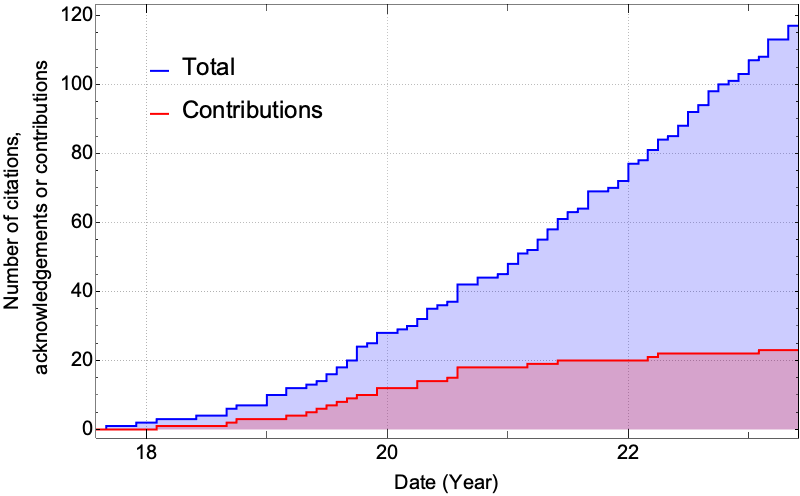
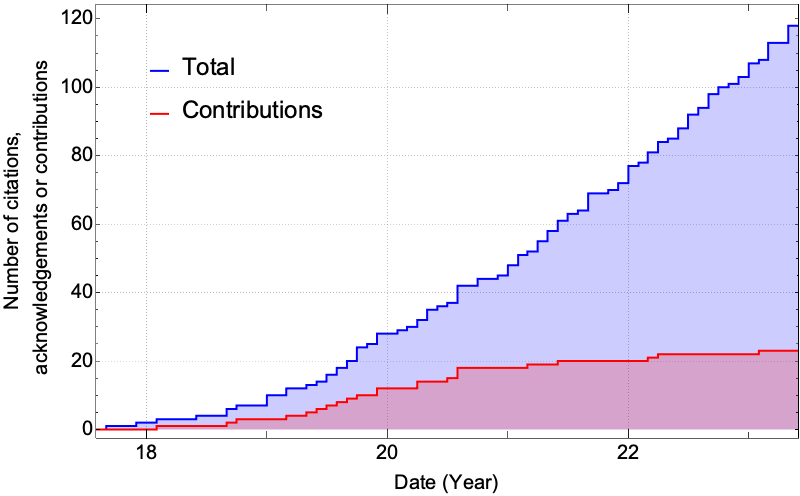
Add paper the cites the Toolkit

diff --git a/users.md b/users.md
@@ -19,11 +19,13 @@ The graph below show the accumulated citations to the Toolkit over time. The blu
 
 Below is a list of research papers that have used or extended the Toolkit. Papers that have contributed code or data to the Toolkit have a (*) after them.
 
-117\. "Self-forced inspirals with spin-orbit precession", Philip Lynch, Maarten van de Meent, Niels Warburton, [arXiv:2305.10533](https://arxiv.org/abs/2305.10533)
+118\. "Self-forced inspirals with spin-orbit precession", Philip Lynch, Maarten van de Meent, Niels Warburton, [arXiv:2305.10533](https://arxiv.org/abs/2305.10533)
 
-116\. "Frequency-domain approach to self-force in hyperbolic scattering", Christopher Whittall, Leor Barack, [arXiv:2305.09724](https://arxiv.org/abs/2305.09724)
+117\. "Frequency-domain approach to self-force in hyperbolic scattering", Christopher Whittall, Leor Barack, [arXiv:2305.09724](https://arxiv.org/abs/2305.09724)
 
-115\. "Extreme mass-ratio inspiral of a spinning body into a Kerr black hole I: Evolution along generic trajectories", Lisa V. Drummond, Alexandra G. Hanselman, Devin R. Becker, Scott A. Hughes, [arXiv:2305.08919](https://arxiv.org/abs/2305.08919)
+116\. "Extreme mass-ratio inspiral of a spinning body into a Kerr black hole I: Evolution along generic trajectories", Lisa V. Drummond, Alexandra G. Hanselman, Devin R. Becker, Scott A. Hughes, [arXiv:2305.08919](https://arxiv.org/abs/2305.08919)
+
+115\. "Gravitational Wave Peeps from EMRIs and their Implication for LISA Signal Confusion Noise", Daniel J Oliver, Aaron D Johnson, Joel Berrier, Kostas Glampedakis, Daniel Kennefick, [arXiv:2305.05793](https://arxiv.org/abs/2305.05793)
 
 114\. "Detecting the secondary spin with extreme mass ratio inspirals in Scalar-Tensor theory", Hong Guo, Chao Zhang, Yunqi Liu, Rui-Hong Yue, Yungui Gong, Bin Wang, [arXiv:2305.00652](https://arxiv.org/abs/2305.00652)
 
